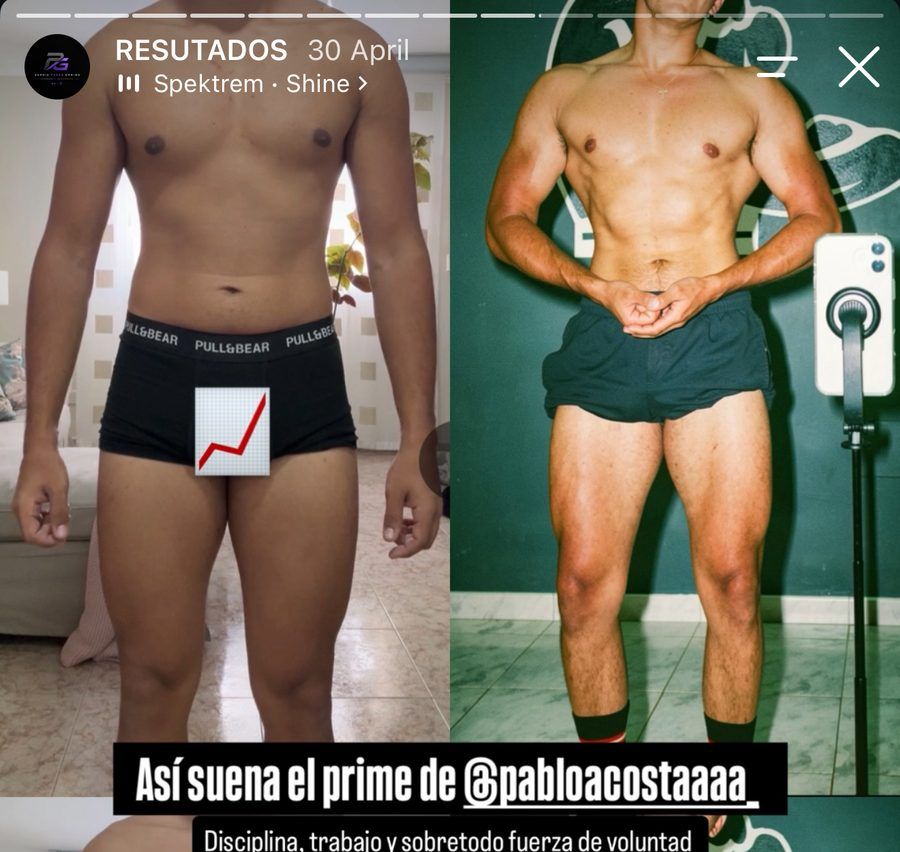
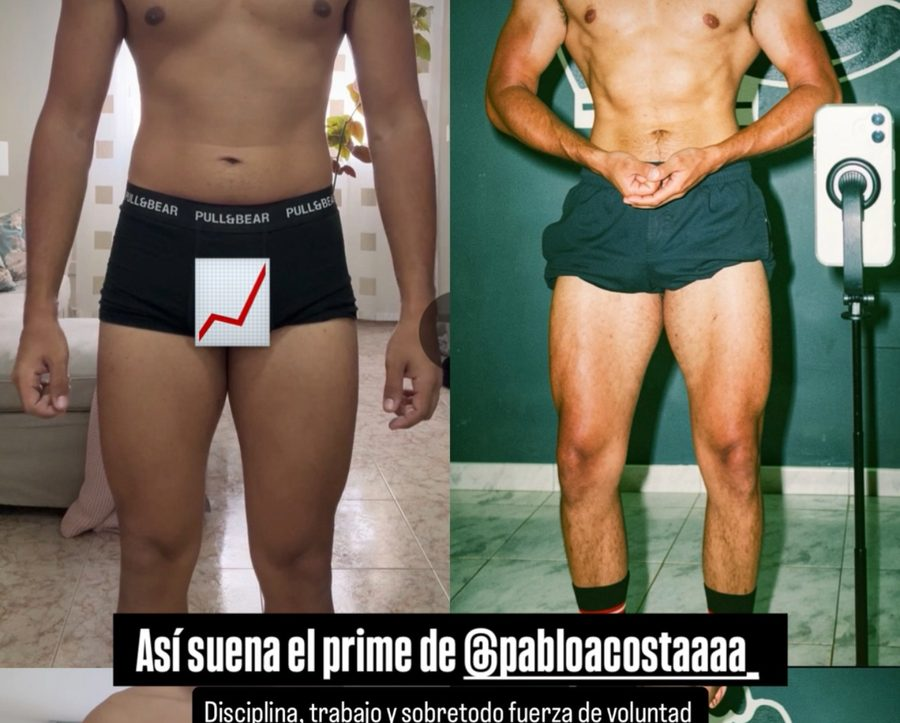
Avance de agentes (WIP)
Claude-Session: https://claude.ai/code/session_011tXPiotwNwCawDbAphTXWv

diff --git a/clientes/jony-garcia/partes/crm.html b/clientes/jony-garcia/partes/crm.html
@@ -75,7 +75,7 @@ table { width: 100%; border-collapse: collapse; font-size: 14px; }
 th, td { text-align: left; padding: 8px; border-bottom: 1px solid var(--sand); vertical-align: top; }
 th { font: 500 11px/1.2 var(--f-mono); letter-spacing: .08em; text-transform: uppercase; color: var(--soft); }
 .tscroll { overflow-x: auto; }
-.ladder { display: grid; grid-template-columns: repeat(5, minmax(0, 1fr)); gap: 8px; }
+.ladder { display: grid; grid-template-columns: repeat(6, minmax(0, 1fr)); gap: 8px; }
 .step { background: var(--white); border-radius: 12px; padding: 10px; display: grid; gap: 2px; text-align: center; border: 2px solid transparent; }
 .step.on { border-color: var(--red); }
 .step small { font: 500 10.5px/1.2 var(--f-mono); color: var(--soft); text-transform: uppercase; }
@@ -108,7 +108,7 @@ dialog::backdrop { background: rgba(20,20,20,.5); }
 
 <header class="top">
   <div class="wrap">
-    <div class="brand"><span class="label">Jony · @jnyfit._</span><b>CRM de DMs</b></div>
+    <div class="brand"><span class="label">Sistema Jony · Parte 7 de 8</span><b>CRM de DMs</b></div>
     <div class="tabs" role="tablist">
       <button class="tab" role="tab" aria-selected="true" data-v="hoy">Hoy</button>
       <button class="tab" role="tab" aria-selected="false" data-v="emb">Embudo</button>
@@ -153,10 +153,10 @@ dialog::backdrop { background: rgba(20,20,20,.5); }
   <!-- CLIENTES -->
   <section id="v-cli" hidden style="display:grid;gap:16px">
     <div class="card sand">
-      <span class="label">Escalera de precios (propuesta, confirmar con Alberto)</span>
+      <span class="label">Programa OBRA · escalera de precios (propuesta, confirmar con Jony y Alberto)</span>
       <h3 id="nivelTxt"></h3>
       <div class="ladder" id="ladder"></div>
-      <p class="note">Cada venta cerrada sube un nivel (≈ +20 %) hasta el tope, que se mantiene hasta tener 10 casos. Ajuste manual solo si Alberto lo decide.</p>
+      <p class="note">Ventas 1–5: fundadores a $197 (o 2 pagos de $105) a cambio de testimonio en vídeo, fotos y permiso. Desde la venta 6, cada venta sube un escalón (+20 %) hasta el tope de $597. Mensual (plan B, mínimo 2 meses): $97 fundadores / $127 después. Mantenimiento: $79/mes (no cuenta como venta de la escalera). Quien recibió un precio lo mantiene 72 h. Ajuste manual solo si Alberto lo decide.</p>
       <div class="row"><button class="btn small ghost" id="nivDown">− Bajar nivel</button><button class="btn small ghost" id="nivUp">+ Subir nivel</button></div>
     </div>
     <div class="card">
@@ -202,9 +202,11 @@ dialog::backdrop { background: rgba(20,20,20,.5); }
     { k: "hecha", n: "Llamada hecha" }, { k: "seg", n: "Seguimiento" }, { k: "cliente", n: "Cliente" }, { k: "perdido", n: "Perdido" }
   ];
   var SN = {}; STAGES.forEach(function (s) { SN[s.k] = s.n; });
-  var PLANS = { "12 semanas": [297, 357, 427, 497, 597], "6 meses": [497, 597, 717, 857, 997] };
-  var NIVN = ["Fundador", "Nivel 2", "Nivel 3", "Nivel 4", "Tope"];
-  var MAXN = 4;
+  var LADDER = [197, 297, 357, 427, 517, 597];
+  var NIVN = ["Fundadores (1–5)", "Venta 6 · Base", "Venta 7", "Venta 8", "Venta 9", "Venta 10+ · Tope"];
+  var MAXN = 5, FUND = 5;
+  var PLAN_LIST = ["Programa OBRA 12 semanas", "Mensual", "Mantenimiento"];
+  var PAGOS = ["Completo", "2 pagos (fundador)"];
 
   $("a-origen").innerHTML = ORIGEN.map(function (o) { return "<option>" + o + "</option>"; }).join("");
   $("a-objetivo").innerHTML = OBJ.map(function (o) { return "<option>" + o + "</option>"; }).join("");
@@ -245,7 +247,21 @@ dialog::backdrop { background: rgba(20,20,20,.5); }
       .catch(function (e) { setStatus(errMsg(e, "cambiar precios"), true); });
   }
   function byId(id) { for (var i = 0; i < leads.length; i++) if (leads[i].id === id) return leads[i]; return null; }
-  function precio(plan) { var p = PLANS[plan] || PLANS["12 semanas"]; return p[Math.min(cfg.nivel || 0, MAXN)]; }
+  function nivelAct() { return Math.min(cfg.nivel || 0, MAXN); }
+  function precio(plan) {
+    var n = nivelAct();
+    if (plan === "Mensual") return n === 0 ? 97 : 127;
+    if (plan === "Mantenimiento") return 79;
+    return LADDER[n];
+  }
+  function precioPago(plan, pago) { return (plan === PLAN_LIST[0] && nivelAct() === 0 && pago === PAGOS[1]) ? 210 : precio(plan); }
+  function contarVenta() {
+    var n = cfg.nivel || 0, v = cfg.ventasDesdeSubida || 0;
+    if (n === 0) { v++; if (v >= FUND) { n = 1; v = 0; } }
+    else if (n < MAXN) { n++; v = 0; }
+    else v++;
+    saveCfg(n, v);
+  }
 
   /* ---------- Alta ---------- */
   $("addForm").addEventListener("submit", async function (e) {
@@ -255,7 +271,7 @@ dialog::backdrop { background: rgba(20,20,20,.5); }
       nombre: nombre, ig: $("a-ig").value.trim(), tel: $("a-tel").value.trim(), edad: $("a-edad").value.trim(),
       origen: $("a-origen").value, palabra: $("a-palabra").value.trim().toUpperCase(), objetivo: $("a-objetivo").value,
       dolor: $("a-dolor").value.trim(), etapa: "nuevo", temp: "tibio", objecion: "", proximo: today(), notas: "",
-      plan: "12 semanas", importe: 0, pago: "Completo", alta: "", precioSubido: false, creado: now(), actualizado: now()
+      plan: PLAN_LIST[0], importe: 0, pago: "Completo", alta: "", precioSubido: false, creado: now(), actualizado: now()
     };
     $("addBtn").disabled = true;
     try { await addLead(data); $("addForm").reset(); $("a-palabra").value = "PLAN"; $("addNote").textContent = "Añadido. Contéstale ya."; }
@@ -315,14 +331,14 @@ dialog::backdrop { background: rgba(20,20,20,.5); }
     }).join("");
 
     // Clientes
-    var n = Math.min(cfg.nivel || 0, MAXN);
-    $("nivelTxt").textContent = "Nivel actual: " + NIVN[n] + " · 12 semanas " + usd(PLANS["12 semanas"][n]) + " · 6 meses " + usd(PLANS["6 meses"][n]);
-    $("ladder").innerHTML = NIVN.map(function (x, i) { return '<div class="step' + (i === n ? " on" : "") + '"><small>' + esc(x) + '</small><b>' + usd(PLANS["12 semanas"][i]) + '</b><small>6 m: ' + usd(PLANS["6 meses"][i]) + '</small></div>'; }).join("");
+    var n = nivelAct();
+    $("nivelTxt").textContent = "Escalón actual: " + NIVN[n] + " · 12 semanas " + usd(LADDER[n]) + " · mensual " + usd(n === 0 ? 97 : 127) + (n === 0 ? " · fundadores vendidos: " + (cfg.ventasDesdeSubida || 0) + " de " + FUND : "");
+    $("ladder").innerHTML = NIVN.map(function (x, i) { return '<div class="step' + (i === n ? " on" : "") + '"><small>' + esc(x) + '</small><b>' + usd(LADDER[i]) + '</b><small>' + (i === 0 ? "mensual $97" : "mensual $127") + '</small></div>'; }).join("");
     $("cliBody").innerHTML = cli.length ? cli.map(function (l) {
-      var fin = l.alta ? addDays(l.alta, l.plan === "6 meses" ? 182 : 84) : "";
+      var fin = l.alta && l.plan !== "Mantenimiento" ? addDays(l.alta, l.plan === "Mensual" ? 60 : 84) : "";
       var soon = fin && fin <= addDays(t, 14);
-      return '<tr><td><b>' + esc(l.nombre) + '</b><br><span class="note">' + esc(l.ig || "") + '</span></td><td>' + esc(l.plan) + '<br><span class="note">' + esc(l.pago) + '</span></td><td>' + usd(l.importe) + '</td><td>' + fdate(l.alta) + '</td><td>' + (fin ? fdate(fin) + (soon ? ' <span class="chip hot">Renovar</span>' : '') : "—") + '</td><td><button class="btn small ghost" data-open="' + esc(l.id) + '">Ficha</button></td></tr>';
-    }).join("") : '<tr><td colspan="6" class="note">Aún sin clientes. Las 5 primeras plazas son a precio fundador.</td></tr>';
+      return '<tr><td><b>' + esc(l.nombre) + '</b><br><span class="note">' + esc(l.ig || "") + '</span></td><td>' + esc(l.plan) + '<br><span class="note">' + esc(l.pago) + '</span></td><td>' + usd(l.importe) + '</td><td>' + fdate(l.alta) + '</td><td>' + (fin ? fdate(fin) + (soon ? ' <span class="chip hot">' + (l.plan === "Mensual" ? "Fin del mínimo" : "Ofrecer Mantenimiento") + '</span>' : '') : (l.plan === "Mantenimiento" ? "Mes a mes" : "—")) + '</td><td><button class="btn small ghost" data-open="' + esc(l.id) + '">Ficha</button></td></tr>';
+    }).join("") : '<tr><td colspan="6" class="note">Aún sin clientes. Las 5 primeras plazas son de fundador ($197).</td></tr>';
     $("cliFoot").innerHTML = cli.length ? '<tr><th colspan="2">Total</th><th>' + usd(fact) + '</th><th colspan="3"></th></tr>' : '';
 
     if (openId && $("dlg").open) syncDlg();
@@ -349,8 +365,8 @@ dialog::backdrop { background: rgba(20,20,20,.5); }
         '<label class="f full">Dolor (sus palabras)<textarea id="f-dolor" maxlength="600">' + esc(l.dolor || "") + '</textarea></label>' +
         '<label class="f full">Objeción<input id="f-objecion" maxlength="200" value="' + esc(l.objecion || "") + '" placeholder="dinero, tiempo, mamá, lo pienso…"></label>' +
         '<label class="f full">Notas<textarea id="f-notas" maxlength="2000">' + esc(l.notas || "") + '</textarea></label>' +
-        '<label class="f">Plan' + sel("f-plan", ["12 semanas", "6 meses"], l.plan) + '</label>' +
-        '<label class="f">Pago' + sel("f-pago", ["Completo", "3 cuotas"], l.pago) + '</label>' +
+        '<label class="f">Plan' + sel("f-plan", PLAN_LIST, l.plan) + '</label>' +
+        '<label class="f">Pago' + sel("f-pago", PAGOS, l.pago) + '</label>' +
         '<label class="f">Importe ($)<input id="f-importe" inputmode="decimal" value="' + esc(l.importe || "") + '"></label>' +
         '<label class="f">Fecha de alta<input type="date" id="f-alta" value="' + esc(l.alta || "") + '"></label>' +
       '</div>' +
@@ -361,7 +377,7 @@ dialog::backdrop { background: rgba(20,20,20,.5); }
   }
   function syncDlg() {
     var l = byId(openId); if (!l) { closeDlg(); return; }
-    var hint = l.etapa === "cliente" ? "Cliente desde " + fdate(l.alta) + "." : "Precio actual de " + l.plan + ": " + usd(precio(l.plan)) + (l.pago === "3 cuotas" ? " · 3 cuotas de " + usd(Math.round(precio(l.plan) * 1.1 / 3)) : "") + ".";
+    var hint = l.etapa === "cliente" ? "Cliente desde " + fdate(l.alta) + "." : "Precio actual de " + l.plan + ": " + usd(precio(l.plan)) + (l.plan === PLAN_LIST[0] && nivelAct() === 0 ? " (o 2 pagos de $105)" : "") + (l.plan === "Mensual" ? " al mes, mínimo 2 meses" : "") + ".";
     $("f-hint").textContent = hint;
     ["etapa", "temp", "plan", "pago"].forEach(function (k) { var el = $("f-" + k); if (el && document.activeElement !== el && el.value !== (l[k] || "")) el.value = l[k] || ""; });
   }
@@ -394,16 +410,13 @@ dialog::backdrop { background: rgba(20,20,20,.5); }
     $("f-win").addEventListener("click", win);
     function win() {
       var cur = byId(id); if (!cur) return;
-      var imp = Number($("f-importe").value.replace(",", ".")) || precio(cur.plan) * (cur.pago === "3 cuotas" ? 1.1 : 1);
+      var imp = Number($("f-importe").value.replace(",", ".")) || precioPago(cur.plan, cur.pago);
       var o = { etapa: "cliente", importe: Math.round(imp * 100) / 100, alta: cur.alta || today(), llamadaHecha: true };
-      if (!cur.precioSubido) {
-        o.precioSubido = true;
-        var n = cfg.nivel || 0;
-        if (n < MAXN) saveCfg(n + 1, 0); else saveCfg(n, (cfg.ventasDesdeSubida || 0) + 1);
-      }
+      var cuenta = !cur.precioSubido && cur.plan !== "Mantenimiento";
+      if (cuenta) { o.precioSubido = true; contarVenta(); }
       updLead(id, o);
       $("f-importe").value = o.importe; $("f-alta").value = o.alta; $("f-etapa").value = "cliente";
-      $("f-msg").textContent = "Cliente registrado. Precio subido al siguiente nivel.";
+      $("f-msg").textContent = cuenta ? "Cliente registrado. Venta contada en la escalera." : "Cliente registrado.";
     }
     $("f-wa").addEventListener("click", function () {
       var cur = byId(id); var n = String((cur && cur.tel) || "").replace(/[^\d]/g, "");
@@ -424,16 +437,18 @@ dialog::backdrop { background: rgba(20,20,20,.5); }
 
   /* ---------- Mensajes ---------- */
   var MSGS = [
-    ["1 · Respuesta a PLAN (en menos de 1 h)", "¡Qué onda [nombre]! Gracias por escribirme 💪\nAntes de nada, para ver si te puedo ayudar: ¿qué buscas ahorita, perder grasa, ganar músculo o las dos?"],
-    ["2 · Calificar (después de su respuesta)", "Va, te entiendo perfecto, yo estuve igual.\n¿Cuánto tiempo llevas entrenando? ¿Y qué es lo que más te ha frenado hasta ahora: la comida, la rutina o el tiempo con el trabajo?"],
-    ["3 · Profundizar", "Eso es lo más común, sobre todo si trabajas pesado. ¿Qué has probado ya? (rutinas de YouTube, dietas, suplementos…)\nY si en 3 meses lo lograras, ¿qué cambiaría para ti?"],
-    ["4 · Invitar a llamada", "Mira, por aquí es difícil ver tu caso bien. Si quieres hacemos una videollamada de 30 min, te digo exactamente qué cambiaría en tu caso y si puedo ayudarte o no. Sin compromiso.\n¿Te queda mejor [día] a las [hora] o [día] a las [hora]?"],
-    ["5 · Confirmar llamada", "¡Listo [nombre]! Quedamos el [día] a las [hora] por [WhatsApp/Zoom]. Ten a la mano qué comes en un día normal y tu rutina. Nos vemos 💪"],
-    ["6 · Seguimiento 24 h (no contestó)", "[nombre], ¿cómo vas? Me quedé con lo que me dijiste de [su dolor]. ¿Seguimos?"],
-    ["7 · Seguimiento 72 h", "Te dejo este video que hice justo sobre [su problema]: [link]. Cuando quieras lo vemos en tu caso."],
-    ["8 · Recuperar tibio (después de la llamada)", "[nombre], estuve pensando en lo que me contaste. Se me ocurrió algo para tu caso con [objeción]. ¿Te lo cuento en 5 min por llamada?"],
-    ["9 · Pedir permiso para contenido", "Oye, ¿te parece si comparto tu progreso en mis historias? Puede ser sin cara y sin nombre, como tú prefieras. Si no, cero problema."]
+    ["/plan · Respuesta a PLAN (en menos de 1 h)", "¡Qué onda, [nombre]! Gracias por escribir 💪\nPara decirte por dónde empezar necesito 3 cosas rápidas:\n1⃣ ¿Qué quieres: bajar la panza, ganar músculo o las dos?\n2⃣ ¿Ya entrenas o vas empezando? ¿Cuántos días puedes ir?\n3⃣ ¿En qué trabajas y a qué hora sales?"],
+    ["/diag · Diagnóstico (antes del audio)", "Va, ya vi lo tuyo. Te mando un audio con lo que yo cambiaría primero 👇\n(Nota de voz de 45–60 s: su error n.º 1 + qué harías tú + \"esto es lo que hago con mis clientes\".)"],
+    ["/llamada · Invitar a llamada", "Mira, por aquí te puedo dar tips, pero para armarte algo que de verdad te funcione con tu jornada necesito conocerte mejor. ¿Te late una videollamada de 20 min esta semana? Sin compromiso: te digo qué haría yo en tu caso y, si quieres que te ayude, te explico cómo trabajo.\n¿Te queda mejor [día] o [día] después de las [hora]?"],
+    ["/precio · Si pregunta el precio por DM", "Te soy directo: el precio depende de lo que necesitas y eso lo vemos en la llamada de 20 min. Ahorita tengo plazas de fundador a un precio que no voy a repetir. ¿Te queda mejor [día] o [día]?"],
+    ["Confirmar llamada", "¡Listo, [nombre]! Quedamos el [día] a las [hora] por [Instagram/WhatsApp]. Ten a la mano qué comes en un día normal y tu rutina. Nos vemos 💪"],
+    ["Seguimiento 24 h (no contestó)", "[nombre], ¿cómo vas? Me quedé con lo que me dijiste de [su dolor]. ¿Seguimos?"],
+    ["Seguimiento 72 h", "Te dejo este video que hice justo sobre [su problema]: [link]. Cuando quieras lo vemos en tu caso."],
+    ["Recuperar tibio (después de la llamada)", "[nombre], estuve pensando en lo que me contaste. Se me ocurrió algo para tu caso con [objeción]. ¿Te lo cuento en 5 min por llamada? Tu precio te lo guardo hasta [fecha +72 h]."],
+    ["Semana 10 · Ofrecer Mantenimiento", "[nombre], vas en la semana 10 y se nota el cambio 🔥 Para que no se pierda, tengo el Mantenimiento: plan actualizado y check-in cada 2 semanas por $79 al mes. ¿Lo dejamos listo para cuando acabes?"],
+    ["Pedir permiso para contenido", "Oye, ¿te parece si comparto tu progreso en mis historias? Puede ser sin cara y sin nombre, como tú prefieras. Si no, cero problema."]
   ];
+
   $("msgs").innerHTML = MSGS.map(function (m, i) { return '<div class="msg"><h3>' + esc(m[0]) + '</h3><pre>' + esc(m[1]) + '</pre><button class="btn small ghost" data-copy="' + i + '">Copiar</button></div>'; }).join("");
   $("msgs").addEventListener("click", function (e) {
     var b = e.target.closest("[data-copy]"); if (!b) return;
